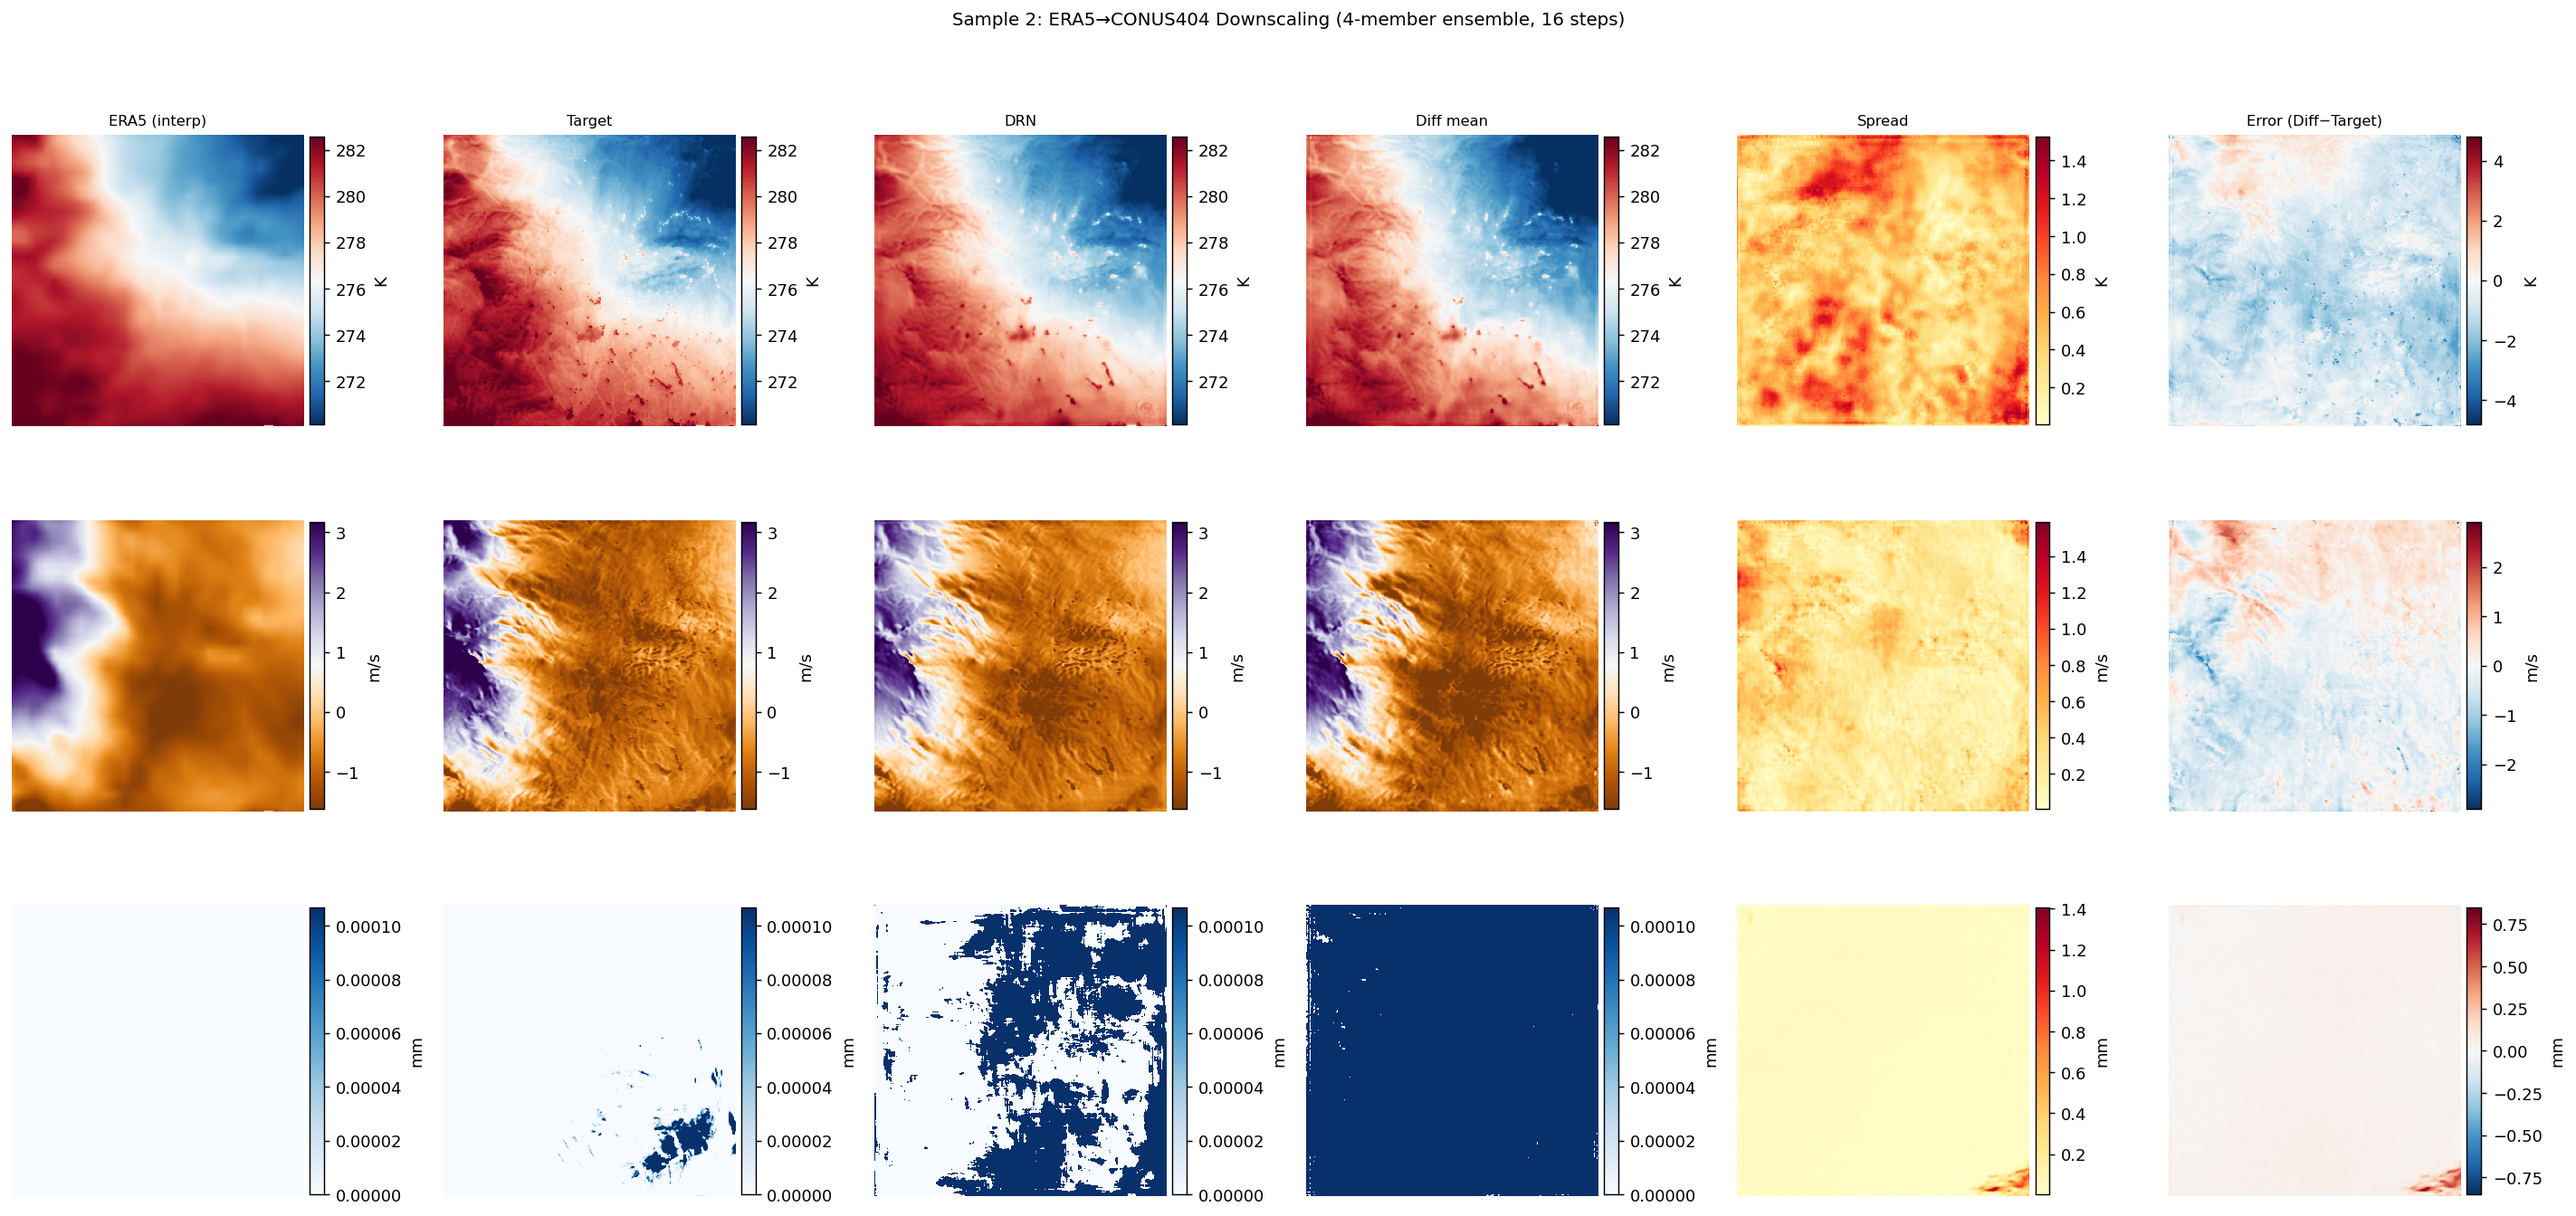
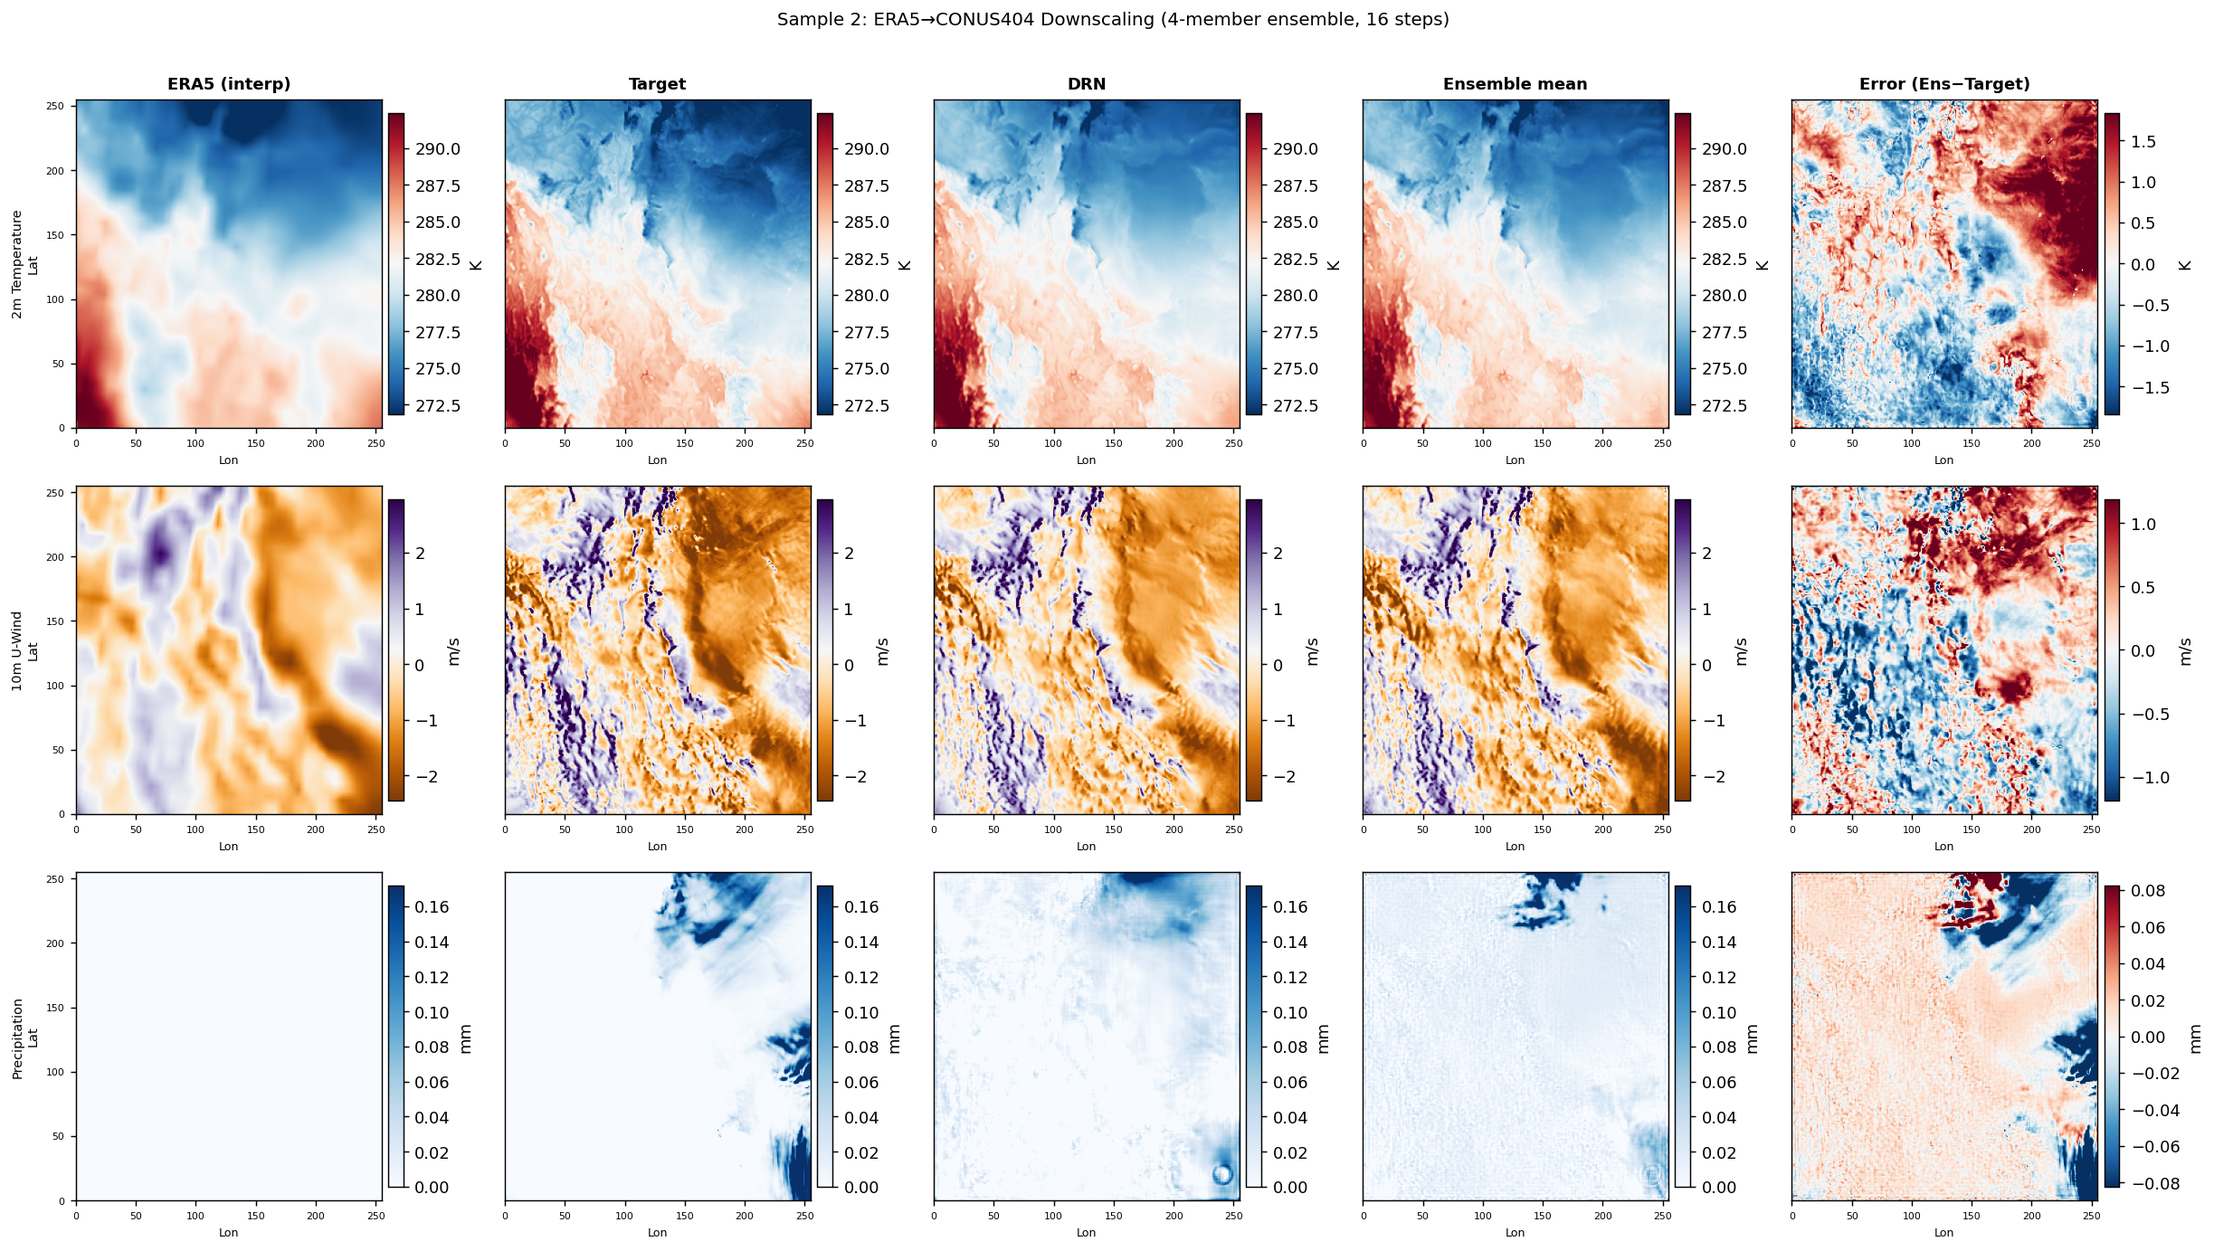
eval: 5-col plots (no spread), 2x3 spectra layout, bigger titles, pixel axes

diff --git a/src/evaluation/quick_inference_plots.py b/src/evaluation/quick_inference_plots.py
@@ -34,17 +34,17 @@ def _denorm_channel(arr, mean, std):
     return arr * std + mean
 
 
-def plot_sample(era5, target, drn_pred, ensemble, var_names, stats, sample_idx, out_dir):
-    """One figure: rows=vars, cols=ERA5|Target|DRN|Diff|Spread|Error."""
+def plot_sample(era5, target, drn_pred, ensemble, var_names, stats, sample_idx, out_dir,
+                lat=None, lon=None):
+    """One figure: rows=vars, cols=ERA5|Target|DRN|Diff mean|Error."""
     n_vars = len(var_names)
-    fig, axes = plt.subplots(n_vars, 6, figsize=(22, 3.5 * n_vars))
+    fig, axes = plt.subplots(n_vars, 5, figsize=(19, 3.5 * n_vars))
     if n_vars == 1:
         axes = axes[None, :]
 
-    col_titles = ["ERA5 (interp)", "Target", "DRN", "Diff mean", "Spread", "Error (Diff−Target)"]
+    col_titles = ["ERA5 (interp)", "Target", "DRN", "Ensemble mean", "Error (Ens−Target)"]
 
     ens_mean = ensemble.mean(axis=0)   # (C, H, W)
-    ens_std  = ensemble.std(axis=0)    # (C, H, W)
 
     for vi, v in enumerate(var_names):
         si = CONUS404_VARS.index(v) if v in CONUS404_VARS else vi
@@ -53,35 +53,47 @@ def plot_sample(era5, target, drn_pred, ensemble, var_names, stats, sample_idx, 
         e_mean = float(stats.era5_mean[si]) if si < len(stats.era5_mean) else c_mean
         e_std  = float(stats.era5_std[si])  if si < len(stats.era5_std)  else c_std
 
-        era5_phys   = _denorm_channel(era5[vi],       e_mean, e_std)
-        tgt_phys    = _denorm_channel(target[vi],     c_mean, c_std)
-        drn_phys    = _denorm_channel(drn_pred[vi],   c_mean, c_std)
-        diff_phys   = _denorm_channel(ens_mean[vi],   c_mean, c_std)
-        spread_phys = ens_std[vi] * c_std
-        error_phys  = diff_phys - tgt_phys
+        era5_phys  = _denorm_channel(era5[vi],      e_mean, e_std)
+        tgt_phys   = _denorm_channel(target[vi],    c_mean, c_std)
+        drn_phys   = _denorm_channel(drn_pred[vi],  c_mean, c_std)
+        diff_phys  = _denorm_channel(ens_mean[vi],  c_mean, c_std)
+        error_phys = diff_phys - tgt_phys
 
         unit = VARIABLE_UNITS.get(v, "")
         cmap = CMAPS.get(v, "viridis")
 
-        panels = [era5_phys, tgt_phys, drn_phys, diff_phys, spread_phys, error_phys]
-        err_abs = np.abs(error_phys).max()
+        panels = [era5_phys, tgt_phys, drn_phys, diff_phys, error_phys]
+        err_abs = np.nanpercentile(np.abs(error_phys), 95)
+
+        H, W = tgt_phys.shape
+        extent = [0, W, 0, H]
+        if lat is not None and lon is not None:
+            extent = [lon[0], lon[-1], lat[0], lat[-1]]
 
         for ci, (ax, data) in enumerate(zip(axes[vi], panels)):
-            if ci == 5:  # error: diverging
+            if ci == 4:  # error: diverging, 95th pct clip
                 vmax = max(err_abs, 1e-6)
-                im = ax.imshow(data, origin="lower", cmap="RdBu_r", vmin=-vmax, vmax=vmax)
-            elif ci == 4:  # spread: sequential
-                im = ax.imshow(data, origin="lower", cmap="YlOrRd")
+                im = ax.imshow(data, origin="lower", cmap="RdBu_r",
+                               vmin=-vmax, vmax=vmax, extent=extent, aspect="auto")
             else:
                 vmin = np.nanpercentile(tgt_phys, 2)
                 vmax = np.nanpercentile(tgt_phys, 98)
-                im = ax.imshow(data, origin="lower", cmap=cmap, vmin=vmin, vmax=vmax)
-            ax.axis("off")
+                im = ax.imshow(data, origin="lower", cmap=cmap,
+                               vmin=vmin, vmax=vmax, extent=extent, aspect="auto")
+            if lat is not None and lon is not None:
+                ax.set_xlabel("Lon", fontsize=7)
+                if ci == 0:
+                    ax.set_ylabel(f"{VARIABLE_NAMES.get(v, v)}\nLat", fontsize=8)
+                else:
+                    ax.set_yticks([])
+                ax.tick_params(labelsize=6)
+            else:
+                ax.axis("off")
+                if ci == 0:
+                    ax.set_ylabel(VARIABLE_NAMES.get(v, v), fontsize=9)
             fig.colorbar(im, ax=ax, fraction=0.046, pad=0.02, label=unit)
             if vi == 0:
-                ax.set_title(col_titles[ci], fontsize=9)
-            if ci == 0:
-                ax.set_ylabel(VARIABLE_NAMES.get(v, v), fontsize=9)
+                ax.set_title(col_titles[ci], fontsize=10, fontweight="bold")
 
     fig.suptitle(f"Sample {sample_idx+1}: ERA5→CONUS404 Downscaling (4-member ensemble, 16 steps)",
                  fontsize=11, y=1.01)
@@ -164,6 +176,9 @@ def main():
     for rank, (r, *_) in enumerate(best):
         print(f"  rank {rank+1}: RMSE={r:.4f}")
 
+    # Pixel-index axes (real lat/lon not available without conus_lat array)
+    pix = np.arange(256)
+
     for plot_idx, (_, era5_np, conus_np, drn_np, ens_np) in enumerate(best):
         plot_sample(
             era5=era5_np[var_indices],
@@ -174,6 +189,8 @@ def main():
             stats=stats,
             sample_idx=plot_idx,
             out_dir=out,
+            lat=pix,
+            lon=pix,
         )
 
     print(f"\n[QuickInference] {args.num_samples} samples saved to {out}/")

diff --git a/src/evaluation/stage_spectra.py b/src/evaluation/stage_spectra.py
@@ -127,11 +127,15 @@ def compute_stage_spectra(
     linewidths = {"ERA5 Interp": 1, "DRN": 1.5, "DRN+VAE": 1.5,
                   "DRN+Diff": 2, "Target": 2}
 
-    fig, axes = plt.subplots(1, n_vars, figsize=(5 * n_vars, 4.5))
-    if n_vars == 1:
-        axes = [axes]
+    ncols = 3
+    nrows = (n_vars + ncols - 1) // ncols
+    fig, axes = plt.subplots(nrows, ncols, figsize=(6 * ncols, 5 * nrows))
+    axes_flat = np.array(axes).flatten()
+    # hide unused panels
+    for extra_ax in axes_flat[n_vars:]:
+        extra_ax.set_visible(False)
 
-    for ax, vname in zip(axes, var_names):
+    for ax, vname in zip(axes_flat[:n_vars], var_names):
         for stage in stages:
             if len(spectra[stage][vname]) == 0:
                 continue
@@ -139,13 +143,13 @@ def compute_stage_spectra(
             ax.loglog(k[:len(mean_ps)], mean_ps,
                       color=colors[stage], lw=linewidths[stage],
                       label=stage, alpha=0.9)
-        ax.set_xlabel("Wavenumber k")
-        ax.set_ylabel("Power")
-        ax.set_title(VARIABLE_NAMES.get(vname, vname))
-        ax.legend(fontsize=7)
+        ax.set_xlabel("Wavenumber k", fontsize=10)
+        ax.set_ylabel("Power", fontsize=10)
+        ax.set_title(VARIABLE_NAMES.get(vname, vname), fontsize=14, fontweight="bold")
+        ax.legend(fontsize=8)
         ax.grid(True, alpha=0.3)
 
-    fig.suptitle("Power Spectra at Each Pipeline Stage", y=1.02, fontsize=14)
+    fig.suptitle("Power Spectra at Each Pipeline Stage", y=1.02, fontsize=16, fontweight="bold")
     fig.tight_layout()
     fig.savefig(out / "stage_spectra.png", dpi=200, bbox_inches="tight")
     plt.close(fig)
